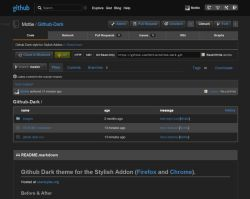
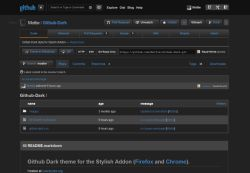
darken commit bars & cleanup

diff --git a/github-dark.css b/github-dark.css
@@ -2,7 +2,7 @@
 
 @-moz-document regexp("^http(s)?://((www|gist|help|status).)?github.*") {
 
-/* Github Dark Theme v1.2.38 (9/21/2012)
+/* Github Dark Theme v1.2.39 (9/22/2012)
  * https://github.com/Mottie/Github-Dark
  * http://userstyles.org/styles/37035
  * License: http://sam.zoy.org/wtfpl/
@@ -89,25 +89,26 @@
  }
 
  /* === Remove shadow === */
- h1,h2,h3,h4,pre,code,strong,ul,li,p,input,a,.news,#footer ul.sosueme li.main,.metabox em.placeholder,
+ h1,h2,h3,h4,pre,code,strong,ul,li,p,input,a,th,.news,#footer ul.sosueme li.main,.metabox em.placeholder,
  table.notifications,.highlight .nt,.highlight .nf,#download_button,.comment-count,em.date,#header,#user-links,
- input.search,.upper_footer,.switcher > span:after,.upgrades td,.notification-indicator,.blog-feedback,.description {
+ input.search,.upper_footer,.switcher > span:after,.upgrades td,.notification-indicator,.blog-feedback,.description,
+ .pagination span,.mini-icon-advanced-search,.count {
   color: #999 !important;
   text-shadow: 0 0 0 transparent !important;
   box-shadow: 0 0 0 transparent !important;
  }
- a,button,div,span,p,ul,li,#gollum-editor-submit,dl.form label,.formbody label {
+ a,button,div,p,ul,li,#gollum-editor-submit,dl.form label,.formbody label,.js-context-button,.footer-text,.minibutton span,
+ span.name {
   color: #ddd !important;
   text-shadow: 0 0 0 transparent !important;
  }
- /* add shadow to make labels readable */
- tr.issue span.label,ul.labels span.name,.listings .label,.filter-item {
-  text-shadow: 0 0 5px #000 !important;
+ .mini-icon,.mini-icon:before,.list-tip:before {
+  text-shadow: 0 0 0 transparent !important;
  }
 
  /* === transparent background only === */
  table tr,.textographic a.repo,#network .repo span,.commit-group-item .browse-button,.stars-browser .filter-bar,
- .topsearch span.search-input,p.meta,.js-menu-container,.sidebar .milestone,.commit-desc pre {
+ .topsearch span.search-input,p.meta,.js-menu-container,.sidebar .milestone,.commit-desc pre,.profilecols .filter-bar {
   background: transparent !important;
  }
 
@@ -250,7 +251,7 @@
  .pagehead ul.tabs li a:hover,.repos .bottom-bar,#languages .popular,.issue,a.selected,table.upgrades td,
  .commit-preview .message,.tip-box h4,.button-group,.wikistyle,.commit-preview p.error,.pagehead ul.tabs li.contextswitch,
  #browser tr th,.status-box h4,.line_numbers.comment-count,.new_issue,.line_numbers,.date_selector,.date_selector table th,
- #files span.icon,#issues_list .actions,.issues-list-actions,.list-browser-footer,.chromed-list-browser p {
+ #files span.icon,#issues_list .actions,.issues-list-actions,.list-browser-footer {
   background: #333 none !important;
   color: #eee !important;
   border: 0 !important;
@@ -341,10 +342,30 @@
   -webkit-border-radius: 5px !important;
  }
 
+ /* === gradient === */
+ /* dark grey gradient */
+ .minibutton,a.feed,.button:not(img),button.classy,a.button.classy,.pagination a,.pagination .gap,.notification-indicator,
+ .comment-header,.pagehead ul.tabs li a,.gobutton,.login_form input[type="submit"],.list-browser-filterbar,#advanced_search,
+ .top-bar {
+  background: #222 !important;
+  background: -webkit-gradient(linear, left top, left bottom, from(#444), to(#222)) !important;
+  background: -moz-linear-gradient(center top, #444, #222) repeat scroll 0 0 transparent !important;
+  border: #444 1px solid !important;
+ }
+
+ /* inverted dark grey gradient */
+ .progress-bar,.pagination .current {
+  background: #222 !important;
+  background: -webkit-gradient(linear, left top, left bottom, from(#222), to(#444)) !important;
+  background: -moz-linear-gradient(center top, #222, #444) repeat scroll 0 0 transparent !important;
+  border: #666 1px solid !important;
+ }
+
  /* === Text Color === */
  /* White text */
  ul.repo-stats li a:hover,.subnav li a:hover,.filters li.selected a,.filters li a:hover,.navigation-focus .mini-icon:before,
- .selector-item:hover .mini-icon:before,.selector-item.selected .mini-icon:before,.btn-close-issue a.minibutton {
+ .selector-item:hover .mini-icon:before,.selector-item.selected .mini-icon:before,.btn-close-issue a.minibutton,
+ .commit .mini-icon:before {
   color: #fff !important;
  }
  /* News (slightly darker text) */
@@ -371,29 +392,10 @@
   border: 0 !important;
  }
 
- /* dark grey gradient */
- .minibutton,a.feed,.button:not(img),button.classy,a.button.classy,.pagination a,.pagination .gap,.notification-indicator,
- .comment-header,.pagehead ul.tabs li a,.gobutton,.login_form input[type="submit"],.list-browser-filterbar,#advanced_search,
- .top-bar {
-  background: #222 !important;
-  background: -webkit-gradient(linear, left top, left bottom, from(#444), to(#222)) !important;
-  background: -moz-linear-gradient(center top, #444, #222) repeat scroll 0 0 transparent !important;
-  border: #444 1px solid !important;
- }
-
- /* inverted dark grey gradient */
- .progress-bar,.pagination .current {
-  background: #222 !important;
-  background: -webkit-gradient(linear, left top, left bottom, from(#222), to(#444)) !important;
-  background: -moz-linear-gradient(center top, #222, #444) repeat scroll 0 0 transparent !important;
-  border: #666 1px solid !important;
- }
-
-
  /* === blue  === */
  /* Blue text */
  .site a,.profilecols ul.stats li a:hover strong,.plans-row .plan,.filters li.selected,#gollum-editor-submit,
- .repo_list span.css-truncate-target {
+ .repo_list span.css-truncate-target,.commit .sha {
   color: #4183C4 !important;
  }
  /* Blue background (hover buttons) */
@@ -411,6 +413,12 @@
   background: #4183C4 !important;
   background: -webkit-gradient(linear, left top, left bottom, from(#599BDC), to(#3072B3)) !important;
   background: -moz-linear-gradient(center top, #599BDC, #3072B3) repeat scroll 0 0 transparent !important;
+ }
+ .context-button:after {
+  border-color: #4183C4 transparent transparent !important;
+ }
+ .context-button:hover:after,.switcher > span:before {
+  border-color: #fff transparent transparent !important;
  }
  /* Blue panel */
  #posts #rss,.github-jobs-promotion p,.signup-button,.hero h1,.plan.personal,.caption,.centered-graphic,
@@ -462,17 +470,10 @@
   background: -moz-linear-gradient(center top , #373, #242) !important;
   border-color: #080 !important;
  }
- .highlight .gi,.highlight .gi pre {
+ .highlight .gi,.highlight .gi pre,a.new-repo {
   background: #305530 !important;
   border-color: #080 !important;
   color: #ddd !important;
- }
- .octofication { position:relative !important; }
- .octofication .message:before {
-  content: url("https://a248.e.akamai.net/assets.github.com/images/modules/dashboard/octofication.png") !important;
-  position: absolute !important;
-  top: 15% !important;
-  left: 0 !important;
  }
  /* New additions */
  .highlight .gi .x,.repo-owner-tag .tag,.gist-owner-tag .tag {
@@ -480,7 +481,7 @@
   color: #ddd !important;
  }
  /* Green hovered */
- #download_button:hover,.noproblems .pageheader_wrap {
+ #download_button:hover,.noproblems .pageheader_wrap,a.new-repo:hover {
   background: #305530 !important;
   background: -webkit-gradient(linear, left top, left bottom, from(#383), to(#242));
   background: -moz-linear-gradient(center top , #383, #242) !important;
@@ -583,6 +584,15 @@
  }
 
  /* === Images === */
+ /* broadcast icon */
+ .octofication { position:relative !important; }
+ .octofication .message:before {
+  content: url("https://a248.e.akamai.net/assets.github.com/images/modules/dashboard/octofication.png") !important;
+  position: absolute !important;
+  top: 15% !important;
+  left: 0 !important;
+ }
+ 
  /* font icons */
  #userbox a:hover, #userbox a:hover .mini-icon {
   color: #4183C4 !important;
@@ -598,7 +608,7 @@
  }
  .repositories canvas {
   background: #222 !important;
-  opacity: 1 !important;
+  opacity: 0.1 !important;
  }
  
  /* Footer cat */
